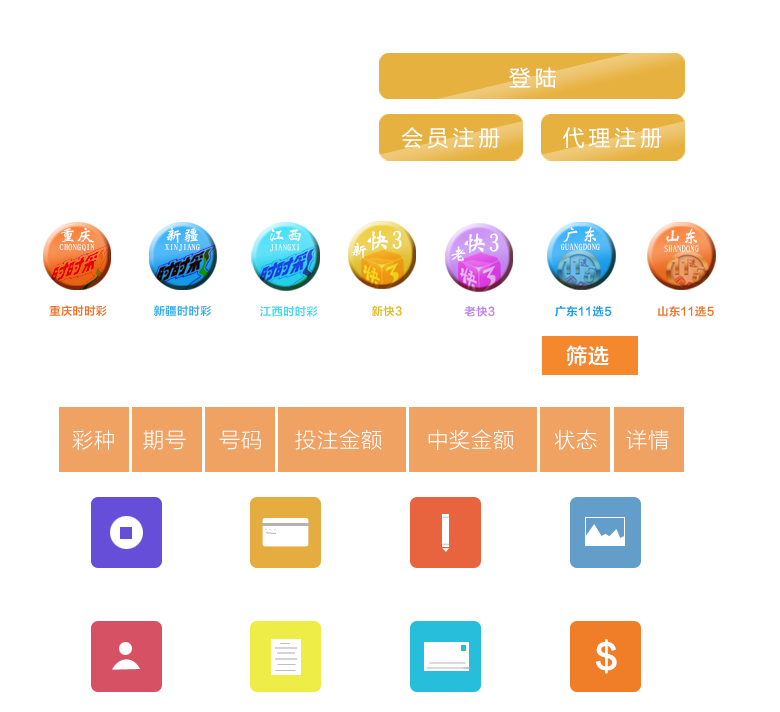
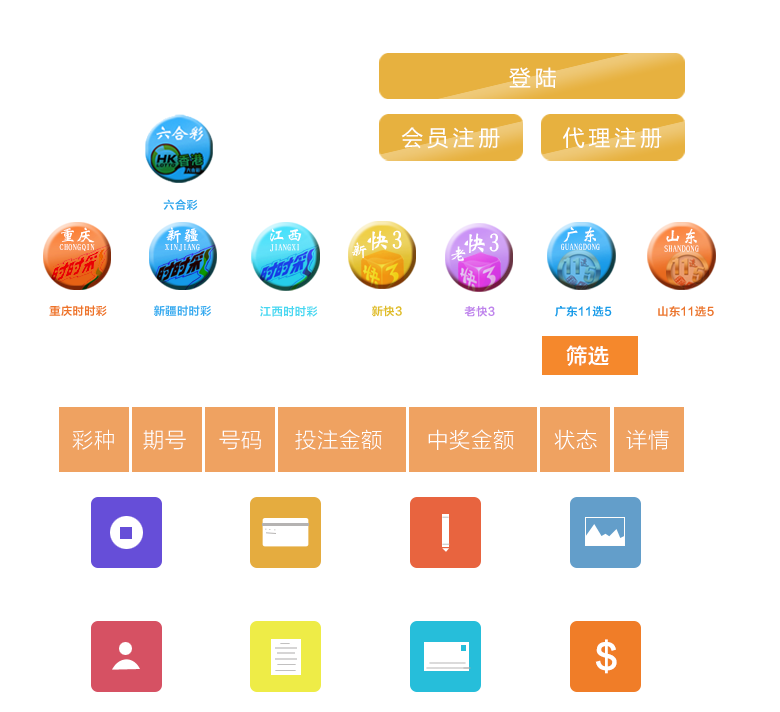
remove the cashier add customer system todo:register

Changed region(s): [[0.1846, 0.1545, 0.2769, 0.309]]

diff --git a/public/css/mobile.css b/public/css/mobile.css
@@ -151,6 +151,12 @@ header {
     width: 73px;
     height: 73px;
 }
+.gp_mobile_lh {
+    display: inline-block;
+    background: url('mobileback.png') no-repeat scroll -140px -114px transparent;
+    width: 73px;
+    height: 73px;
+}
 
 .gp_mobile_text {
     display: inline-block;

diff --git a/resources/views/gaopinindex.blade.php b/resources/views/gaopinindex.blade.php
@@ -61,6 +61,7 @@
                 </a>
             </div>
         </div>
+
         <div class="col-md-4 mobilhide" style="padding-top: 30px;">
             <div class="gp_new_guide mobilhide" style="background-color: white;">
                 <div style="padding-top: 35px;width: 250px">
@@ -77,7 +78,7 @@
         </div>
     </div>
     <div class="container" style="background-color: white;padding-top: 20px;">
-        <div class="gaopinLotAll">
+        <div class="gaopinLotAll mobilhide">
             <div class="">
                 <a href="/lotteryIndex?lottery_type=jsold">
                     <div class="gp_route_overlay"></div>
@@ -103,7 +104,7 @@
             </div>
         </div>
     </div>
-    <div class="container" style="background-color: white;padding-top: 20px">
+    <div class="container mobilhide" style="background-color: white;padding-top: 20px">
         <div class="col-md-4 mobilhide">
             <div class="gp_lottery_result">
                 开奖时间：{{$recentArray['SDFIVE']->created_at}}
@@ -174,6 +175,156 @@
         <div class="row">
             <div class="col-md-offset-1 col-md-10" style="padding-top: 3px;background-color:#fdc124;"></div>
         </div>
+    </div>
+    <div class="container-fluid mobilShow" style="display: none">
+        <!--导航菜单 结束-->
+        <!--商品列表 开始-->
+        <div class="row gp_person" style="">
+            <div class="col-xs-3">
+                <a href="recharge">
+                    <div class="gp_mobile_recharge"></div>
+                    <span>充值</span>
+                </a>
+            </div>
+
+            <div class="col-xs-3">
+                <a href="deposit">
+                    <div class="gp_mobile_deposit"></div>
+                    <span>提款</span>
+                </a>
+            </div>
+            <div class="col-xs-3">
+                <a href="inviteurl">
+                    <div class="gp_mobile_proxy"></div>
+                    <span>代理</span>
+                </a>
+            </div>
+            <div class="col-xs-3">
+                <a href="fivelotterytrend?lottery_type=sdfive">
+                    <div class="gp_mobile_trend"></div>
+                    <span>走势</span>
+                </a>
+            </div>
+        </div>
+        <div class="row gp_person" style="padding-top: 10px;padding-bottom: 10px">
+            <div class="col-xs-3">
+                <a href="account">
+                    <div class="gp_mobile_personal"></div>
+                    <span>个人资料</span>
+                </a>
+            </div>
+            <div class="col-xs-3">
+                <a href="getaccountdetail">
+                    <div class="gp_mobile_pdetail"></div>
+                    <span>账户明细</span>
+                </a>
+            </div>
+            <div class="col-xs-3">
+                <a href="editpwd">
+                    <div class="gp_mobile_record"></div>
+                    <span>修改密码</span>
+                </a>
+            </div>
+            <div class="col-xs-3">
+                <a href="bank">
+                    <div class="gp_mobile_drecord"></div>
+                    <span>绑定银行卡</span>
+                </a>
+            </div>
+        </div>
+        <div class="row">
+            <div class="col-xs-12" style="height: 1px;background-color: #808080"></div>
+        </div>
+        <div class="row" style="padding-top: 10px">
+            <div class="col-xs-3">
+                <a href="ssclotteryIndex?lottery_type=cqssc">
+                    <div class="gp_mobile_cq"></div>
+                </a>
+            </div>
+            <div class="col-xs-3" style="padding-left: 0px;padding-right: 0px;border-right: solid #000000 1px;">
+                <a href="ssclotteryIndex?lottery_type=cqssc">
+                    <div class="gp_mobile_text"><span>重庆时时彩</span></div>
+                </a>
+            </div>
+            <div class="col-xs-3">
+                <a href="ssclotteryIndex?lottery_type=xjssc">
+                    <div class="gp_mobile_xj"></div>
+                </a>
+            </div>
+            <div class="col-xs-3" style="padding-left: 0px;padding-right: 0px;">
+                <a href="ssclotteryIndex?lottery_type=xjssc">
+                    <div class="gp_mobile_text"><span>新疆时时彩</span></div>
+                </a>
+            </div>
+        </div>
+        <div class="row" style="padding-top: 10px">
+            <div class="col-xs-3">
+                <a href="ssclotteryIndex?lottery_type=jxssc">
+                    <div class="gp_mobile_jx"></div>
+                </a>
+            </div>
+            <div class="col-xs-3" style="padding-left: 0px;padding-right: 0px;border-right: solid #000000 1px;">
+                <a href="ssclotteryIndex?lottery_type=jxssc">
+                    <div class="gp_mobile_text"><span>江西时时彩</span></div>
+                </a>
+            </div>
+            <div class="col-xs-3">
+                <a href="lotteryIndex?lottery_type=jsnew">
+                    <div class="gp_mobile_xk3"></div>
+                </a>
+            </div>
+            <div class="col-xs-3" style="padding-left: 0px;padding-right: 0px;">
+                <a href="lotteryIndex?lottery_type=jsnew">
+                    <div class="gp_mobile_text"><span>新快3</span></div>
+                </a>
+            </div>
+        </div>
+        <div class="row" style="padding-top: 10px">
+            <div class="col-xs-3">
+                <a href="lotteryIndex?lottery_type=jsold">
+                    <div class="gp_mobile_lk3"></div>
+                </a>
+            </div>
+            <div class="col-xs-3" style="padding-left: 0px;padding-right: 0px;border-right: solid #000000 1px;">
+                <a href="lotteryIndex?lottery_type=jsold">
+                    <div class="gp_mobile_text"><span>老快3</span></div>
+                </a>
+            </div>
+            <div class="col-xs-3">
+                <a href="fivelotteryIndex?lottery_type=gdfive">
+                    <div class="gp_mobile_gd"></div>
+                </a>
+            </div>
+            <div class="col-xs-3" style="padding-left: 0px;padding-right: 0px;">
+                <a href="fivelotteryIndex?lottery_type=gdfive">
+                    <div class="gp_mobile_text"><span>广东11选5</span></div>
+                </a>
+            </div>
+        </div>
+        <div class="row" style="padding-top: 10px">
+            <div class="col-xs-3">
+                <a href="fivelotteryIndex?lottery_type=sdfive">
+                    <div class="gp_mobile_sd"></div>
+                </a>
+            </div>
+            <div class="col-xs-3" style="padding-left: 0px;padding-right: 0px;border-right: solid #000000 1px;">
+                <a href="fivelotteryIndex?lottery_type=sdfive">
+                    <div class="gp_mobile_text"><span>山东11选5</span></div>
+                </a>
+            </div>
+            <div class="col-xs-3">
+                <a href="6helotteryIndex">
+                    <div class="gp_mobile_lh"></div>
+                </a>
+            </div>
+            <div class="col-xs-3" style="padding-left: 0px;padding-right: 0px;">
+                <a href="6helotteryIndex">
+                    <div class="gp_mobile_text"><span>香港六合彩</span></div>
+                </a>
+            </div>
+        </div>
+        @include('User.mobilebottom')
+        <!--底部菜单 结束-->
     </div>
     <div class="container mobilhide" style="margin-top: 20px">
         <div class="col-md-offset-1 col-md-10">

diff --git a/resources/views/Layout/gaopinmaster.blade.php b/resources/views/Layout/gaopinmaster.blade.php
@@ -8,7 +8,7 @@
     <title> @yield('title') </title>
     <link rel="stylesheet" type="text/css" href="{{ asset('/css/gaopin.css') }}">
     <link rel="stylesheet" type="text/css" href="{{ asset('/css/all.css') }}">
-    <link rel="stylesheet" type="text/css" href="{{ asset('/css/gpcmobile.css') }}">
+    <link rel="stylesheet" type="text/css" href="{{ asset('/css/mobile.css') }}">
     <link rel="icon" href="gaopinfavicon.ico" type="image/x-icon"/>
     <style type="text/css">
         .navbar-responsive-collapse > .navbar-nav > li {
@@ -28,11 +28,16 @@
     @yield('css')
 </head>
 <body style="background-color: #f2fcfd">
+
+<div class="container-fluid mobilShow" style="display: none;padding: 0px">
+    <div class="col-xs-12 mobiletop"></div>
+</div>
 <div style="width: 100%;height: 30px;background-color: white">
     <div class="container">
+
         <div class="row">
             <div class="col-md-offset-1 col-md-10" style="padding-top: 5px">
-                <div style="float: left">
+                <div class="mobilhide" style="float: left">
                     hi，
                     @if(!Auth::guest())
                         <span style="color: red">  {{Auth::user()->name}}</span>
@@ -59,15 +64,6 @@
     </div>
 </div>
 <div class="gaopinlogo mobilhide"></div>
-<div class="mobilShow" style="display: none">
-    <div class="logo-box clearfix" style="width:auto;padding: 15px 0">
-        <a href="#">
-            <img title="高频彩" alt="高频彩" src="/css/gaopinlogo.png" class="logo-index-hd"
-                 style="width:122px;height:30px;margin:0 8px 0 0">
-        </a>
-        <a><img alt="为梦想买单" src="/css/logo_dream.png"></a>
-    </div>
-</div>
 <div style="width: 100%;background-color:#FCAB1D ">
     <div class="container" style="background-color: #FCAB1D;">
         <div class="collapse navbar-collapse navbar-responsive-collapse">
@@ -87,7 +83,7 @@
                 <li><a href="/fivelotterytrend?lottery_type=sdfive" style="color:white;font-weight: bold"
                        title="走势图">走势图</a>
                 </li>
-                <li><a title="合作代理" target="_blank" style="color:white;font-weight: bold" href="/inviteurl">合作代理</a>
+                <li><a title="合作代理" style="color:white;font-weight: bold" href="/inviteurl">合作代理</a>
                 </li>
                 <li><a href="/userLotteryBetting" target="_blank" style="color:white;font-weight: bold"
                        title="交易记录">交易记录</a>
@@ -109,6 +105,55 @@
         </div>
     </div>
 </div>
+<nav class="navbar navbar-default mobilShow" role="navigation" style="display: none;">
+    <div class="container-fluid">
+        <div class="navbar-header">
+            <button type="button" class="navbar-toggle collapsed" data-toggle="collapse" data-target="#nav-target">
+                <span class="sr-only">Toggle navigation</span>
+                <span class="icon-bar"></span>
+                <span class="icon-bar"></span>
+                <span class="icon-bar"></span>
+            </button>
+            <a class="navbar-brand" href="#">导航栏</a>
+        </div>
+
+        <div class="collapse navbar-collapse" id="nav-target">
+            <ul class="nav navbar-nav nav">
+                <li><a href="/" style="color:red;font-weight: bold">网站首页</a></li>
+                <li class="dropdown">
+                    <a class="dropdown-toggle" style="color:red;font-weight: bold" data-toggle="dropdown"
+                       role="button">游戏规则<span class="caret"></span></a>
+                    <ul class="dropdown-menu" role="menu">
+                        <li><a href="/k3GameRule">快三</a></li>
+                        <li><a href="/fiveGameRule">11选5</a></li>
+                        <li><a href="/sscGameRule">时时彩</a></li>
+                        <li><a href="/sixheGameRule">六合彩</a></li>
+                    </ul>
+                </li>
+                <li><a href="/favourable" style="color:red;font-weight: bold" title="优惠活动">优惠活动</a></li>
+                <li><a href="/fivelotterytrend?lottery_type=sdfive" style="color:red;font-weight: bold"
+                       title="走势图">走势图</a>
+                </li>
+                <li><a title="合作代理" style="color:red;font-weight: bold" href="/inviteurl">合作代理</a></li>
+                <li><a href="/userLotteryBetting" target="_blank" style="color:red;font-weight: bold"
+                       title="交易记录">交易记录</a>
+                </li>
+                <li><a href="/fivelotteryIndex?lottery_type=sdfive" title="手机下注" style="color:red;font-weight: bold">手机下注</a>
+                </li>
+                <li class="dropdown">
+                    <a class="dropdown-toggle" style="color:red;font-weight: bold" data-toggle="dropdown"
+                       role="button">网址<span class="caret"></span></a>
+                    <ul class="dropdown-menu" role="menu">
+                        <li><a href="#">网址一</a></li>
+                        <li><a href="#">网址二</a></li>
+                        <li><a href="#">网址三</a></li>
+                        <li><a href="#">网址四</a></li>
+                        <li><a href="#">网址五</a></li>
+                    </ul>
+            </ul>
+        </div>
+    </div>
+</nav>
 <div class="container mobilShow" style="display: none">
     @if(!Auth::guest())
         <label class="form-control" style="text-align: center">余额：{{Auth::user()->lu_user_data->points}}</label>

diff --git a/resources/views/User/mobilebottom.blade.php b/resources/views/User/mobilebottom.blade.php
@@ -1,11 +1,7 @@
 <div id="footer" class="mobilShow" style="display: none;margin-top: 78px">
     <footer class="navbar-fixed-bottom gpnav-footer">
         <div class="col-xs-3">
-            @if(env('SITE_TYPE','')=="gaopin")
-                <a href="/mobileindex" css="current"><img src="/css/down_main.png"><span>首页</span></a>
-            @else
-                <a href="/" css="current"><img src="/css/down_main.png"><span>首页</span></a>
-            @endif
+            <a href="/" css="current"><img src="/css/down_main.png"><span>首页</span></a>
         </div>
         <div class="col-xs-3"><a href="account"><img src="/css/down_center.png"><span>个人中心</span></a></div>
         <div class="col-xs-3"><a href="userLotteryBetting"><img src="/css/down_jilu.png"><span>投注记录</span></a></div>
